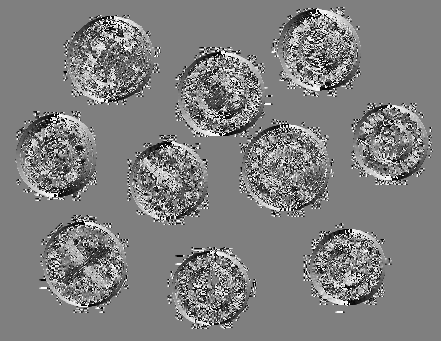
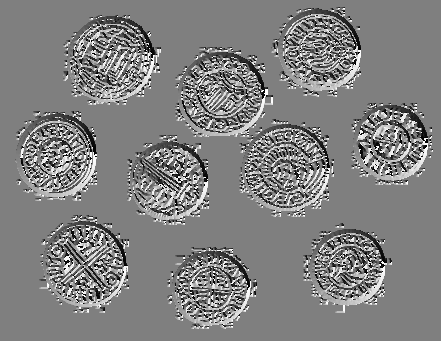
Circle Detection

diff --git a/ProblemSheets/ProblemSheet4/houghCircle.py b/ProblemSheets/ProblemSheet4/houghCircle.py
@@ -1,0 +1,91 @@
+import numpy as np
+import cv2 as cv
+import sys
+
+colour=cv.imread("img/coins1.png",1)
+magnitude=cv.imread("img/magnitude.png",cv.IMREAD_GRAYSCALE)
+direction=cv.imread("img/direction.png",cv.IMREAD_GRAYSCALE)
+
+def thresholding(mag:np.ndarray,dir:np.ndarray,threshold=64) -> "np.ndarray,np.ndarray":
+    mag_thres=np.zeros(mag.shape); dir_thres=np.zeros(dir.shape)
+    for i in range(0,mag.shape[0]):
+        for j in range(0,mag.shape[1]):
+            if (mag[i,j]>threshold):
+                mag_thres[i,j]=255
+                dir_thres[i,j]=direction[i,j]
+            else:
+                dir_thres[i,j]=128
+                mag_thres[i,j]=0
+    return mag_thres,dir_thres
+
+# magnitude should be thresholded
+def hough(mag:np.ndarray,dir:np.ndarray,hough_threshold=100,min_radius=10,max_radius=100)->[[]]:
+    parameter_space=np.zeros((mag.shape[0],mag.shape[1],max_radius+1))
+    for i in range(0,mag.shape[0]):
+        for j in range(0,mag.shape[1]):
+            if mag[i,j]==255:
+                # increment all points on line of possible radia
+                for r in range(min_radius,max_radius+1):
+                    psi=2*np.pi*(dir[i,j]/255)-np.pi
+                    y_c=i-int(r*np.sin(psi))
+                    x_c=j+int(r*np.cos(psi))
+                    if (y_c>=0) and (y_c<parameter_space.shape[0]) and (x_c>=0) and (x_c<parameter_space.shape[1]):
+                        parameter_space[y_c,x_c,r]+=1
+    # implement thresholding
+    return parameter_space
+
+# Create image to show intensity from hough space
+# hough_space=[[x_c,y_c,r]]
+def hough_magnitude(hough_space:np.ndarray, threshold=10):
+    img=np.ndarray(hough_space.shape[0:2])
+    max=-sys.maxsize; min=sys.maxsize # for normalisation
+    for i in range(0,img.shape[0]):
+        for j in range(0,img.shape[1]):
+            n=np.sum(hough_space[i,j,:]) # sum of votes for all radia
+            if (n<threshold): img[i,j]=0
+            else: img[i,j]=n
+
+            if (n>max): max=n
+            if (n<min): min=n
+
+    print(min,max)
+    print(hough_space.max())
+    # normalise
+    for i in range(0,img.shape[0]):
+        for j in range(0,img.shape[1]):
+            img[i,j]=((img[i,j]-min)/(max-min))*255
+
+    return img
+
+def hough_img(colour_img:np.ndarray,hough_space:np.ndarray,threshold=5):
+    overlay=np.zeros((colour_img.shape[0],colour_img.shape[1],3))
+    centres=np.zeros((colour_img.shape[0],colour_img.shape[1]))
+
+    to_plot=[]
+
+    for i in range(0,hough_space.shape[0]):
+        for j in range(0,hough_space.shape[1]):
+            for k in range(0,hough_space.shape[2]):
+                if (hough_space[i,j,k]>=threshold):
+                    overlay[i,j]=[0,0,255]
+                    to_plot.append([i,j,k])
+                    centres[i,j]=255
+                else:
+                    overlay[i,j]=colour_img[i,j]
+    for (i,j,k) in to_plot:
+        cv.circle(overlay, (j,i), k, (0,0,255), 2)
+
+    return overlay, centres
+
+
+magnitude_threshold,direction_threshold=thresholding(magnitude,direction,threshold=64)
+cv.imwrite("img/magnitude_threshold.png",magnitude_threshold)
+cv.imwrite("img/direction_threshold.png",direction_threshold)
+
+hough_space=hough(magnitude_threshold,direction_threshold,min_radius=20,max_radius=100)
+hough_image=hough_magnitude(hough_space,threshold=0)
+cv.imwrite("img/hough_img.png",hough_image)
+
+overlay,centres=hough_img(colour,hough_space,threshold=10)
+cv.imwrite("img/centres.png",centres)
+cv.imwrite("img/overlay.png",overlay)

diff --git a/ProblemSheets/ProblemSheet4/sobel.py b/ProblemSheets/ProblemSheet4/sobel.py
@@ -2,7 +2,7 @@ import numpy as np
 import cv2 as cv
 import sys
 
-def convolution(image,kernel) -> [[]]:
+def convolution(image:[[]],kernel:[[]]) -> [[]]:
     radius_x=int((kernel.shape[0]-1)/2)
     radius_y=int((kernel.shape[1]-1)/2)
 
@@ -27,14 +27,17 @@ def convolution(image,kernel) -> [[]]:
             output[i,j]=sum
     return output
 
-def normalise(img) -> [[]]:
+def normalise(img:[[]],min=None,max=None) -> [[]]:
+    min_set=not(min is None)
+    max_set=not(max is None)
     normalised=np.zeros(img.shape)
-    min=sys.maxsize; max=-sys.maxsize
+    if (not min_set): min=sys.maxsize
+    if (not max_set): max=-sys.maxsize
     for i in range (0,img.shape[0]):
         for j in range (0,img.shape[1]):
-            if img[i,j]<min:
+            if (img[i,j]<min) and (not min_set):
                 min=img[i,j]
-            elif (img[i,j]>max):
+            elif (img[i,j]>max) and (not max_set):
                 max=img[i,j]
 
     for i in range(0,img.shape[0]):
@@ -42,7 +45,7 @@ def normalise(img) -> [[]]:
             normalised[i,j]=int(((img[i,j]-min)/(max-min))*255)
     return normalised
 
-def magnitude(dx,dy) -> [[]]:
+def magnitude(dx:[[]],dy:[[]]) -> [[]]:
     m=np.zeros(img.shape)
 
     for i in range(0,m.shape[0]):
@@ -51,16 +54,15 @@ def magnitude(dx,dy) -> [[]]:
 
     return normalise(m)
 
-def direction(dx,dy) -> [[]]:
-    d=np.zeros(img.shape)
-
-    for i in range(0,d.shape[0]):
-        for j in range(0,d.shape[1]):
+def direction(dx:[[]],dy:[[]]) -> [[]]:
+    d=np.zeros(dx.shape)
+    for i in range(0,dx.shape[0]):
+        for j in range(0,dx.shape[1]):
             if dx[i,j]==0:
                 dx[i,j]=1/sys.maxsize
-            d[i,j]=np.arctan(dy[i,j]/dx[i,j])
-
-    return normalise(d)
+            d[i,j]=np.arctan2(dy[i,j],dx[i,j])
+    normalised=normalise(d,min=-np.pi,max=np.pi)
+    return normalised
 
 dx=np.matrix([[-1,0,1],[-2,0,2],[-1,0,1]])
 dy=np.matrix([[1,2,1],[0,0,0],[-1,-2,-1]])
